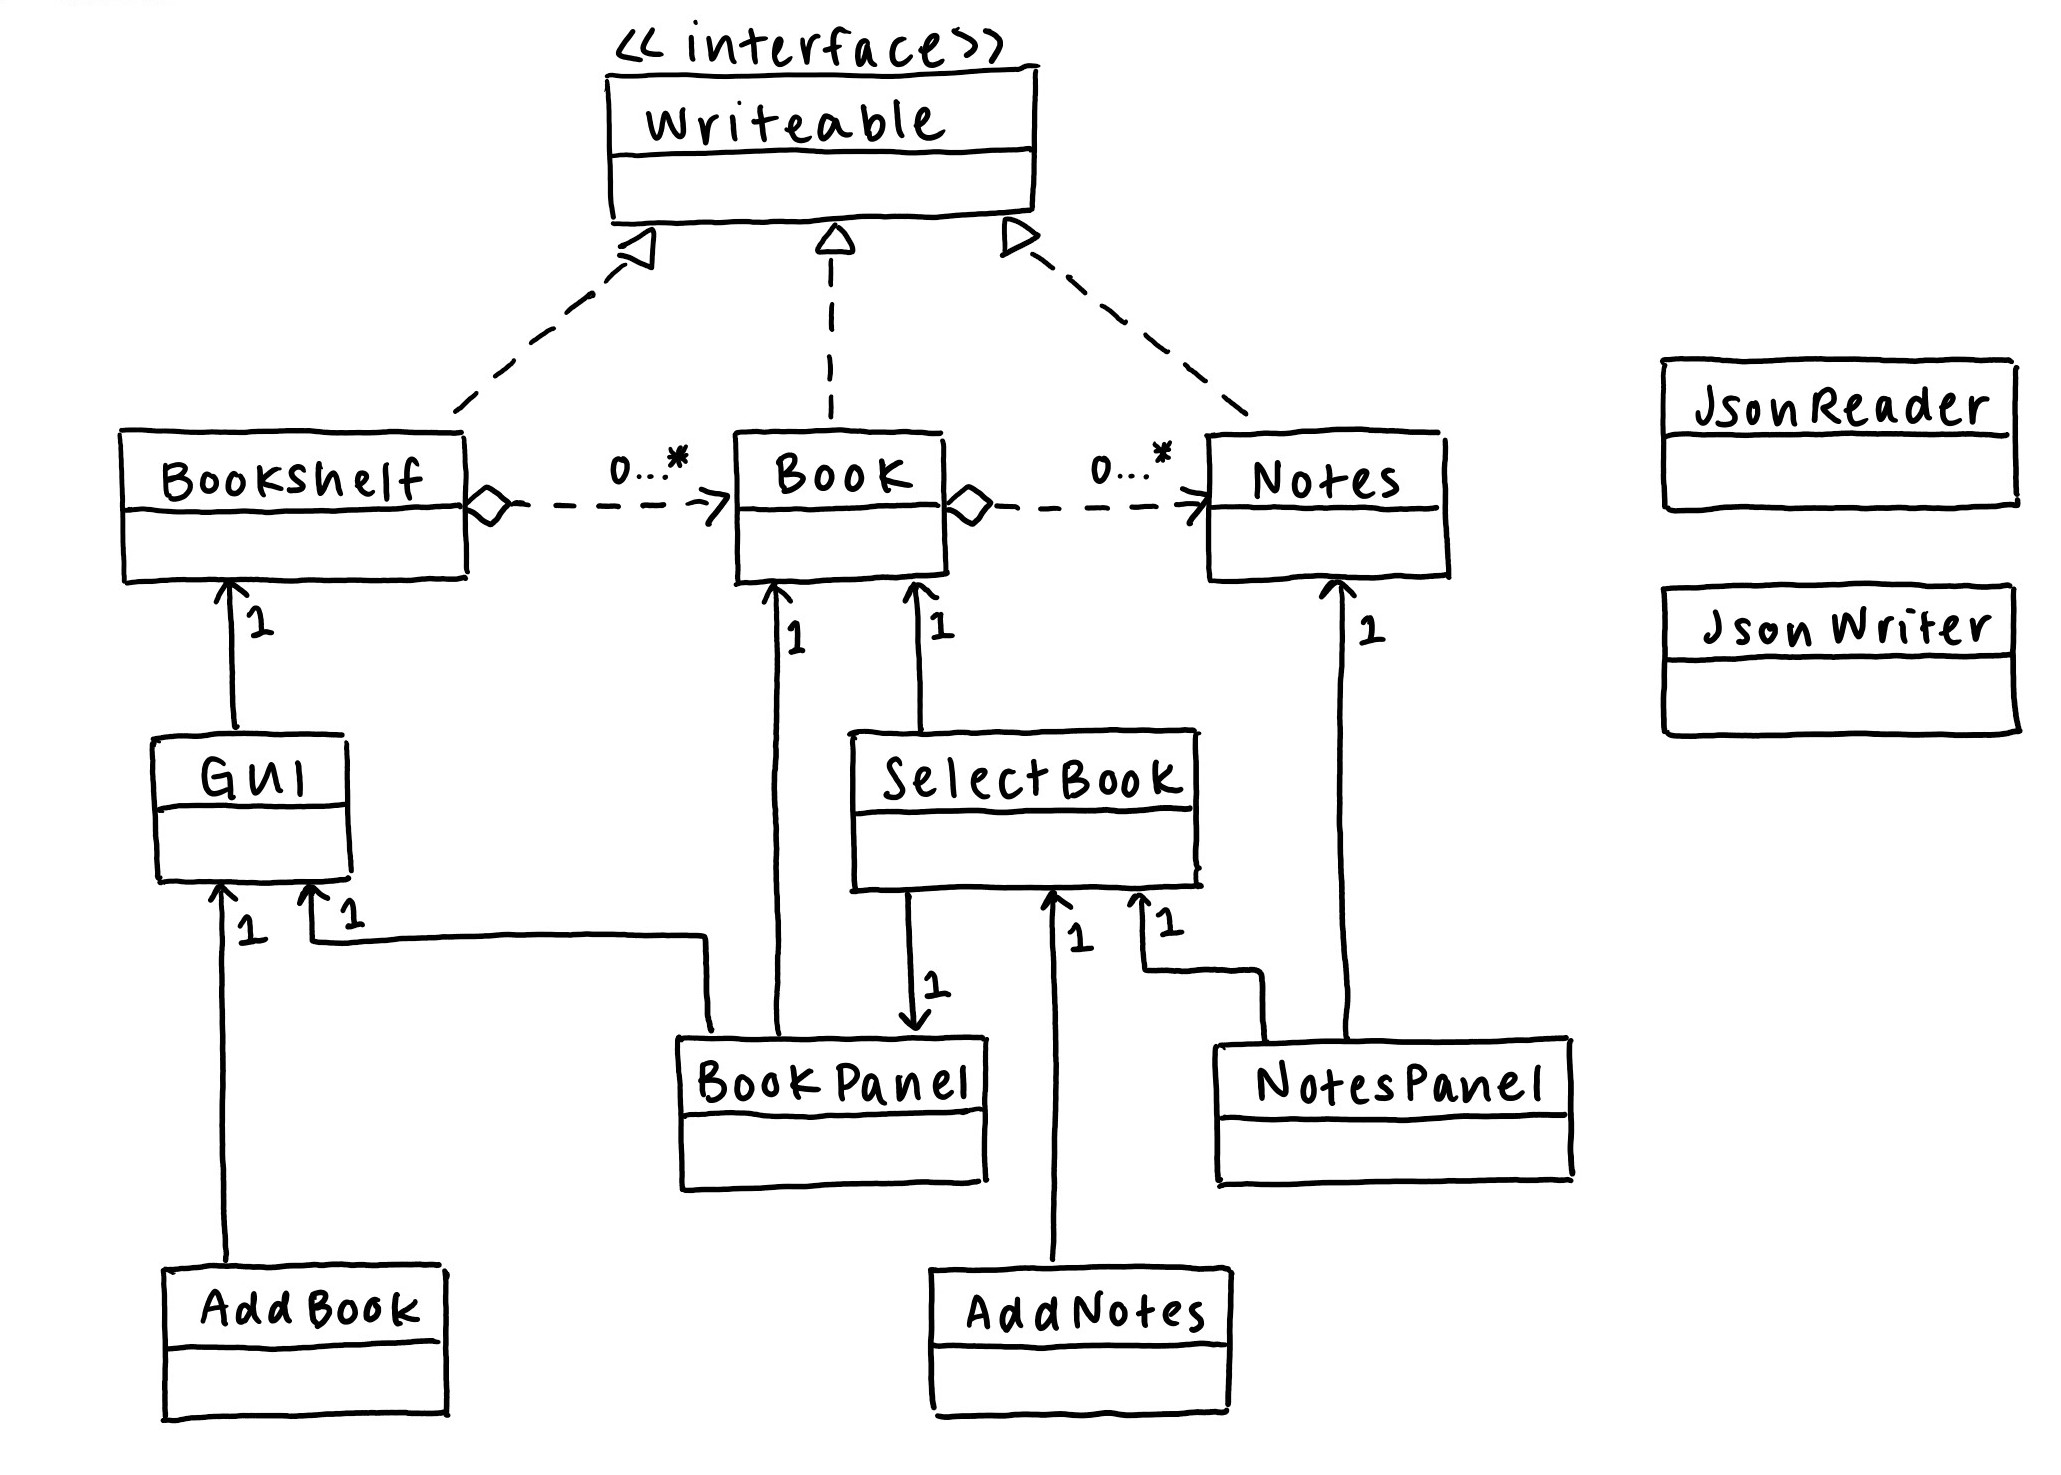
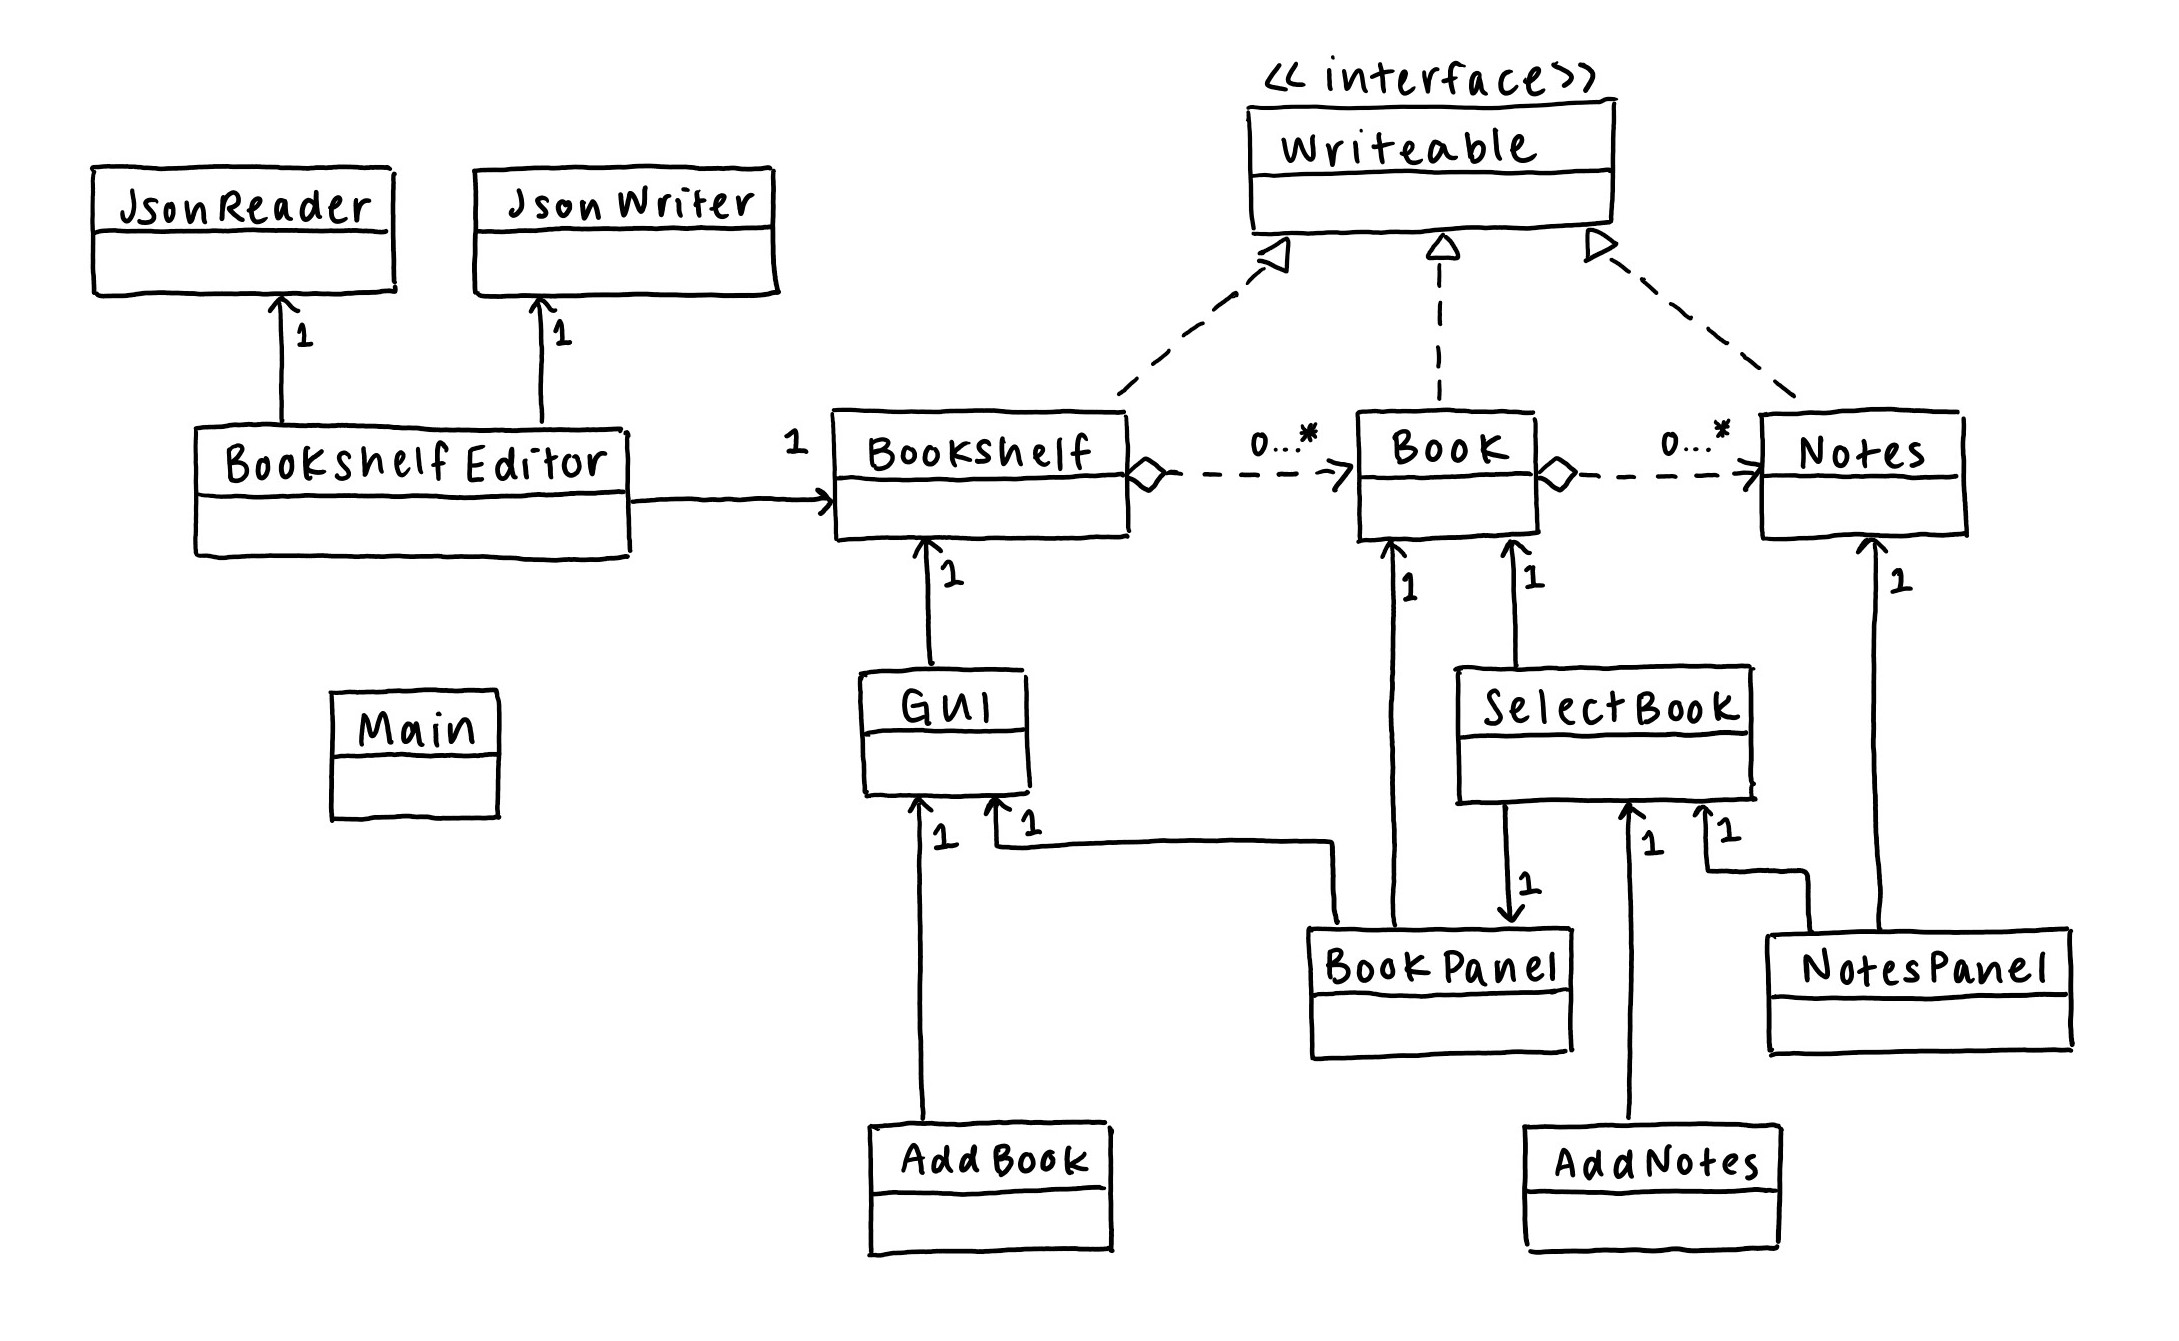
updated uml design diagram, added task 3 to README.md

diff --git a/README.md b/README.md
@@ -40,3 +40,10 @@ The intended audience includes avid readers and anyone who would like to keep tr
 	- setHeading(String heading)
 	- setNotes(String notes)
 - Tested robust design in NotesTest
+
+**Task 3**
+- Improving Coupling 
+    - Book and Bookshelf Class have methods in common
+    - AddNotes and AddBook have methods in common
+- Improving Cohesion
+    - Split Bookshelf Editor into multiple classes
